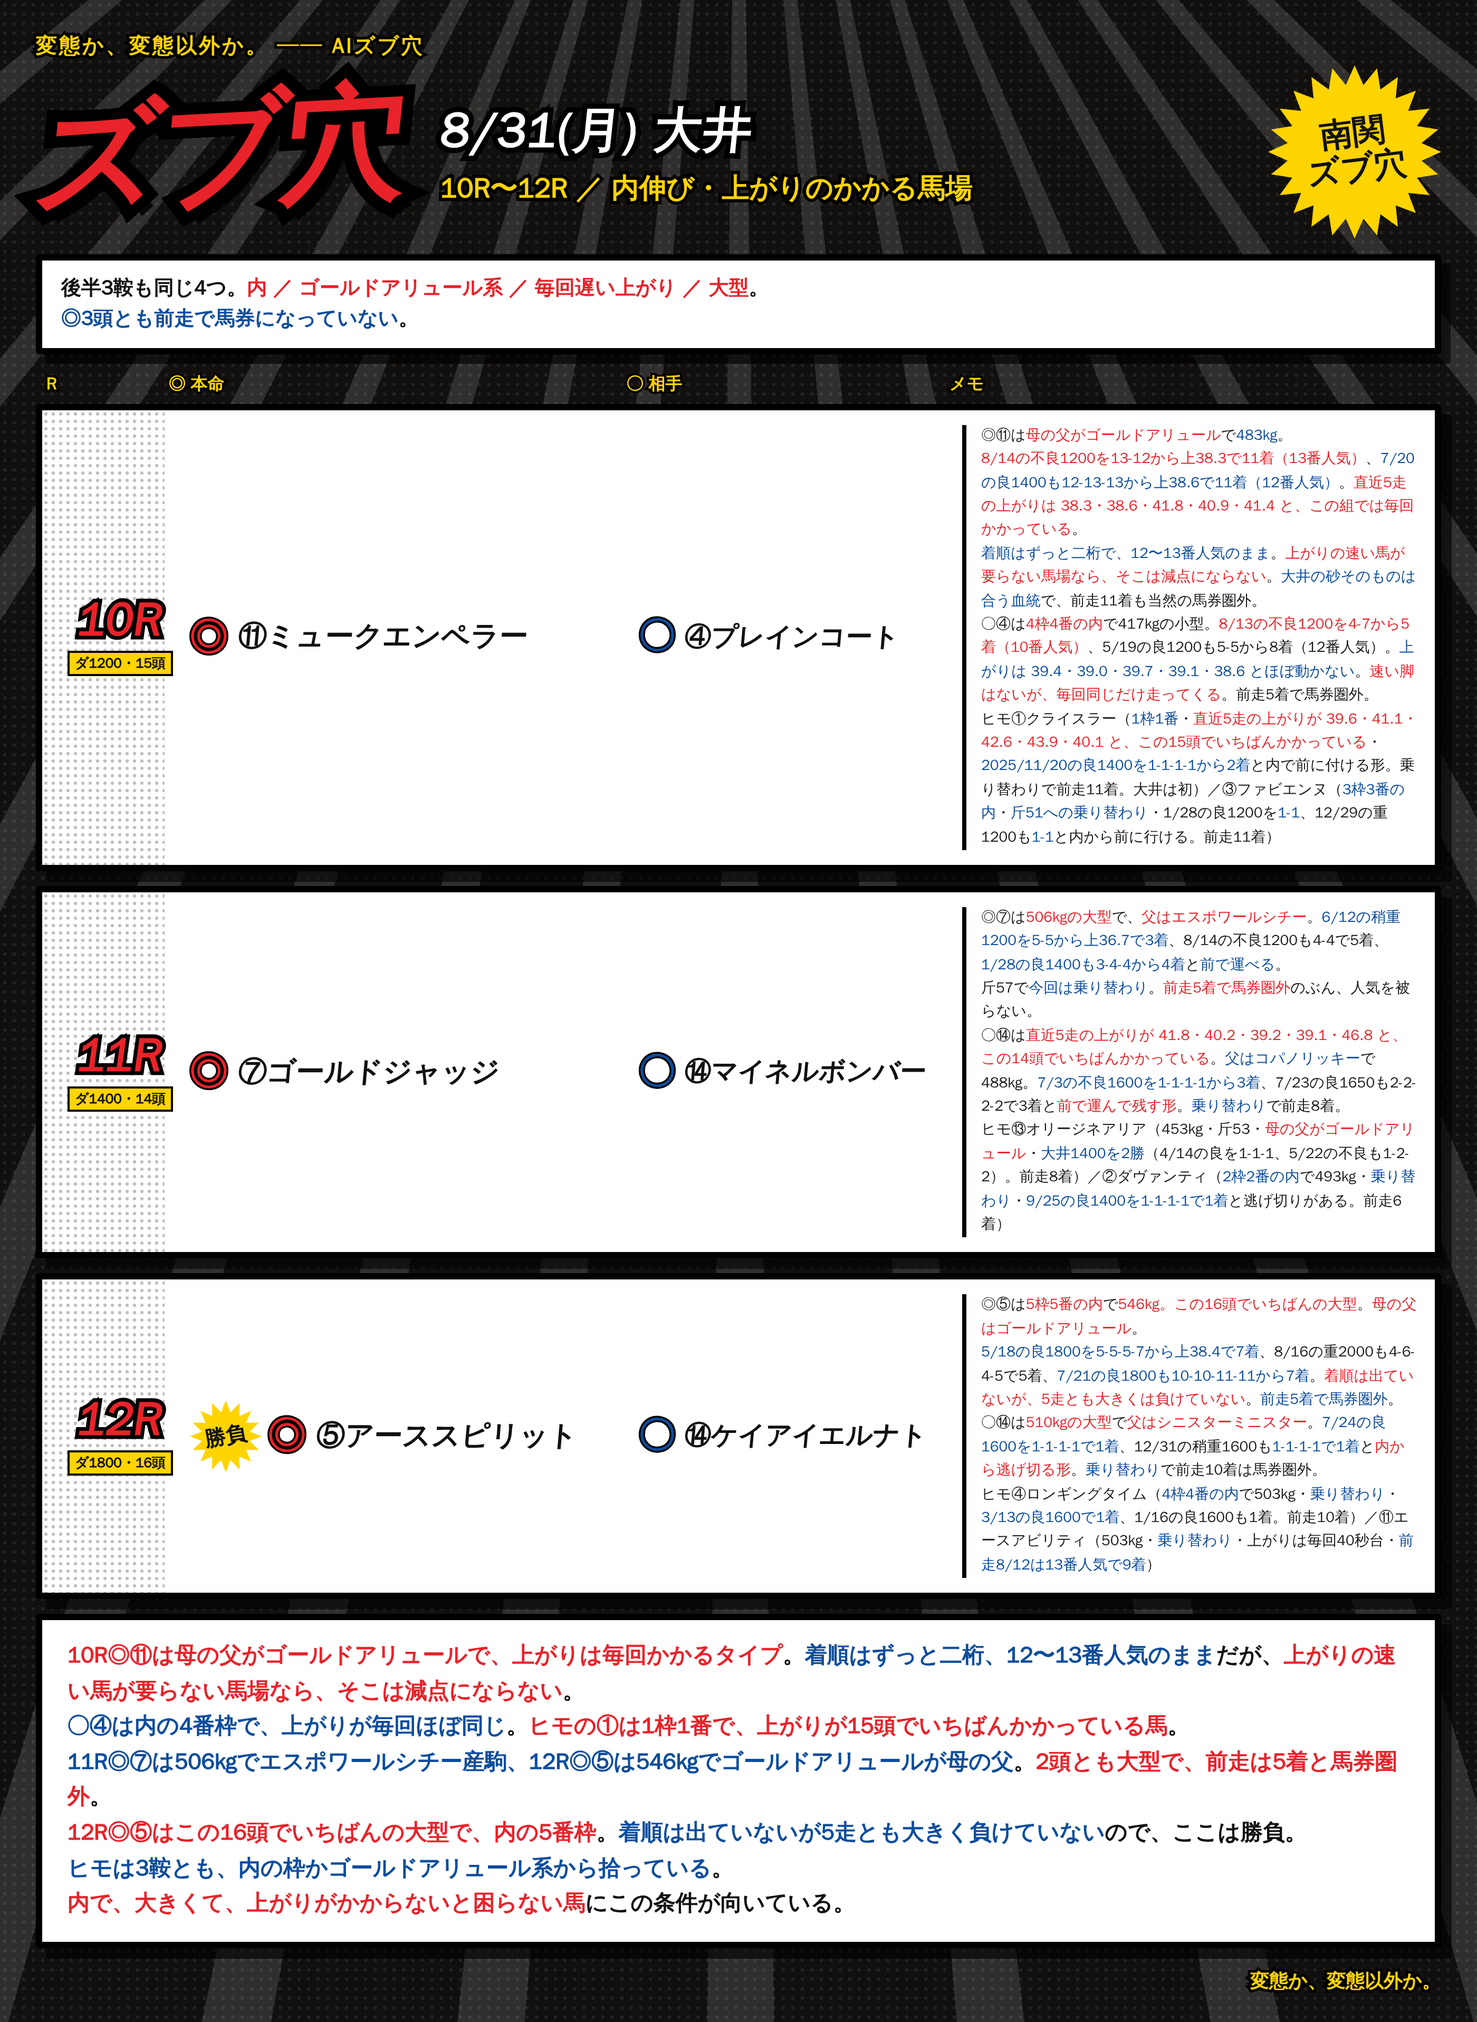
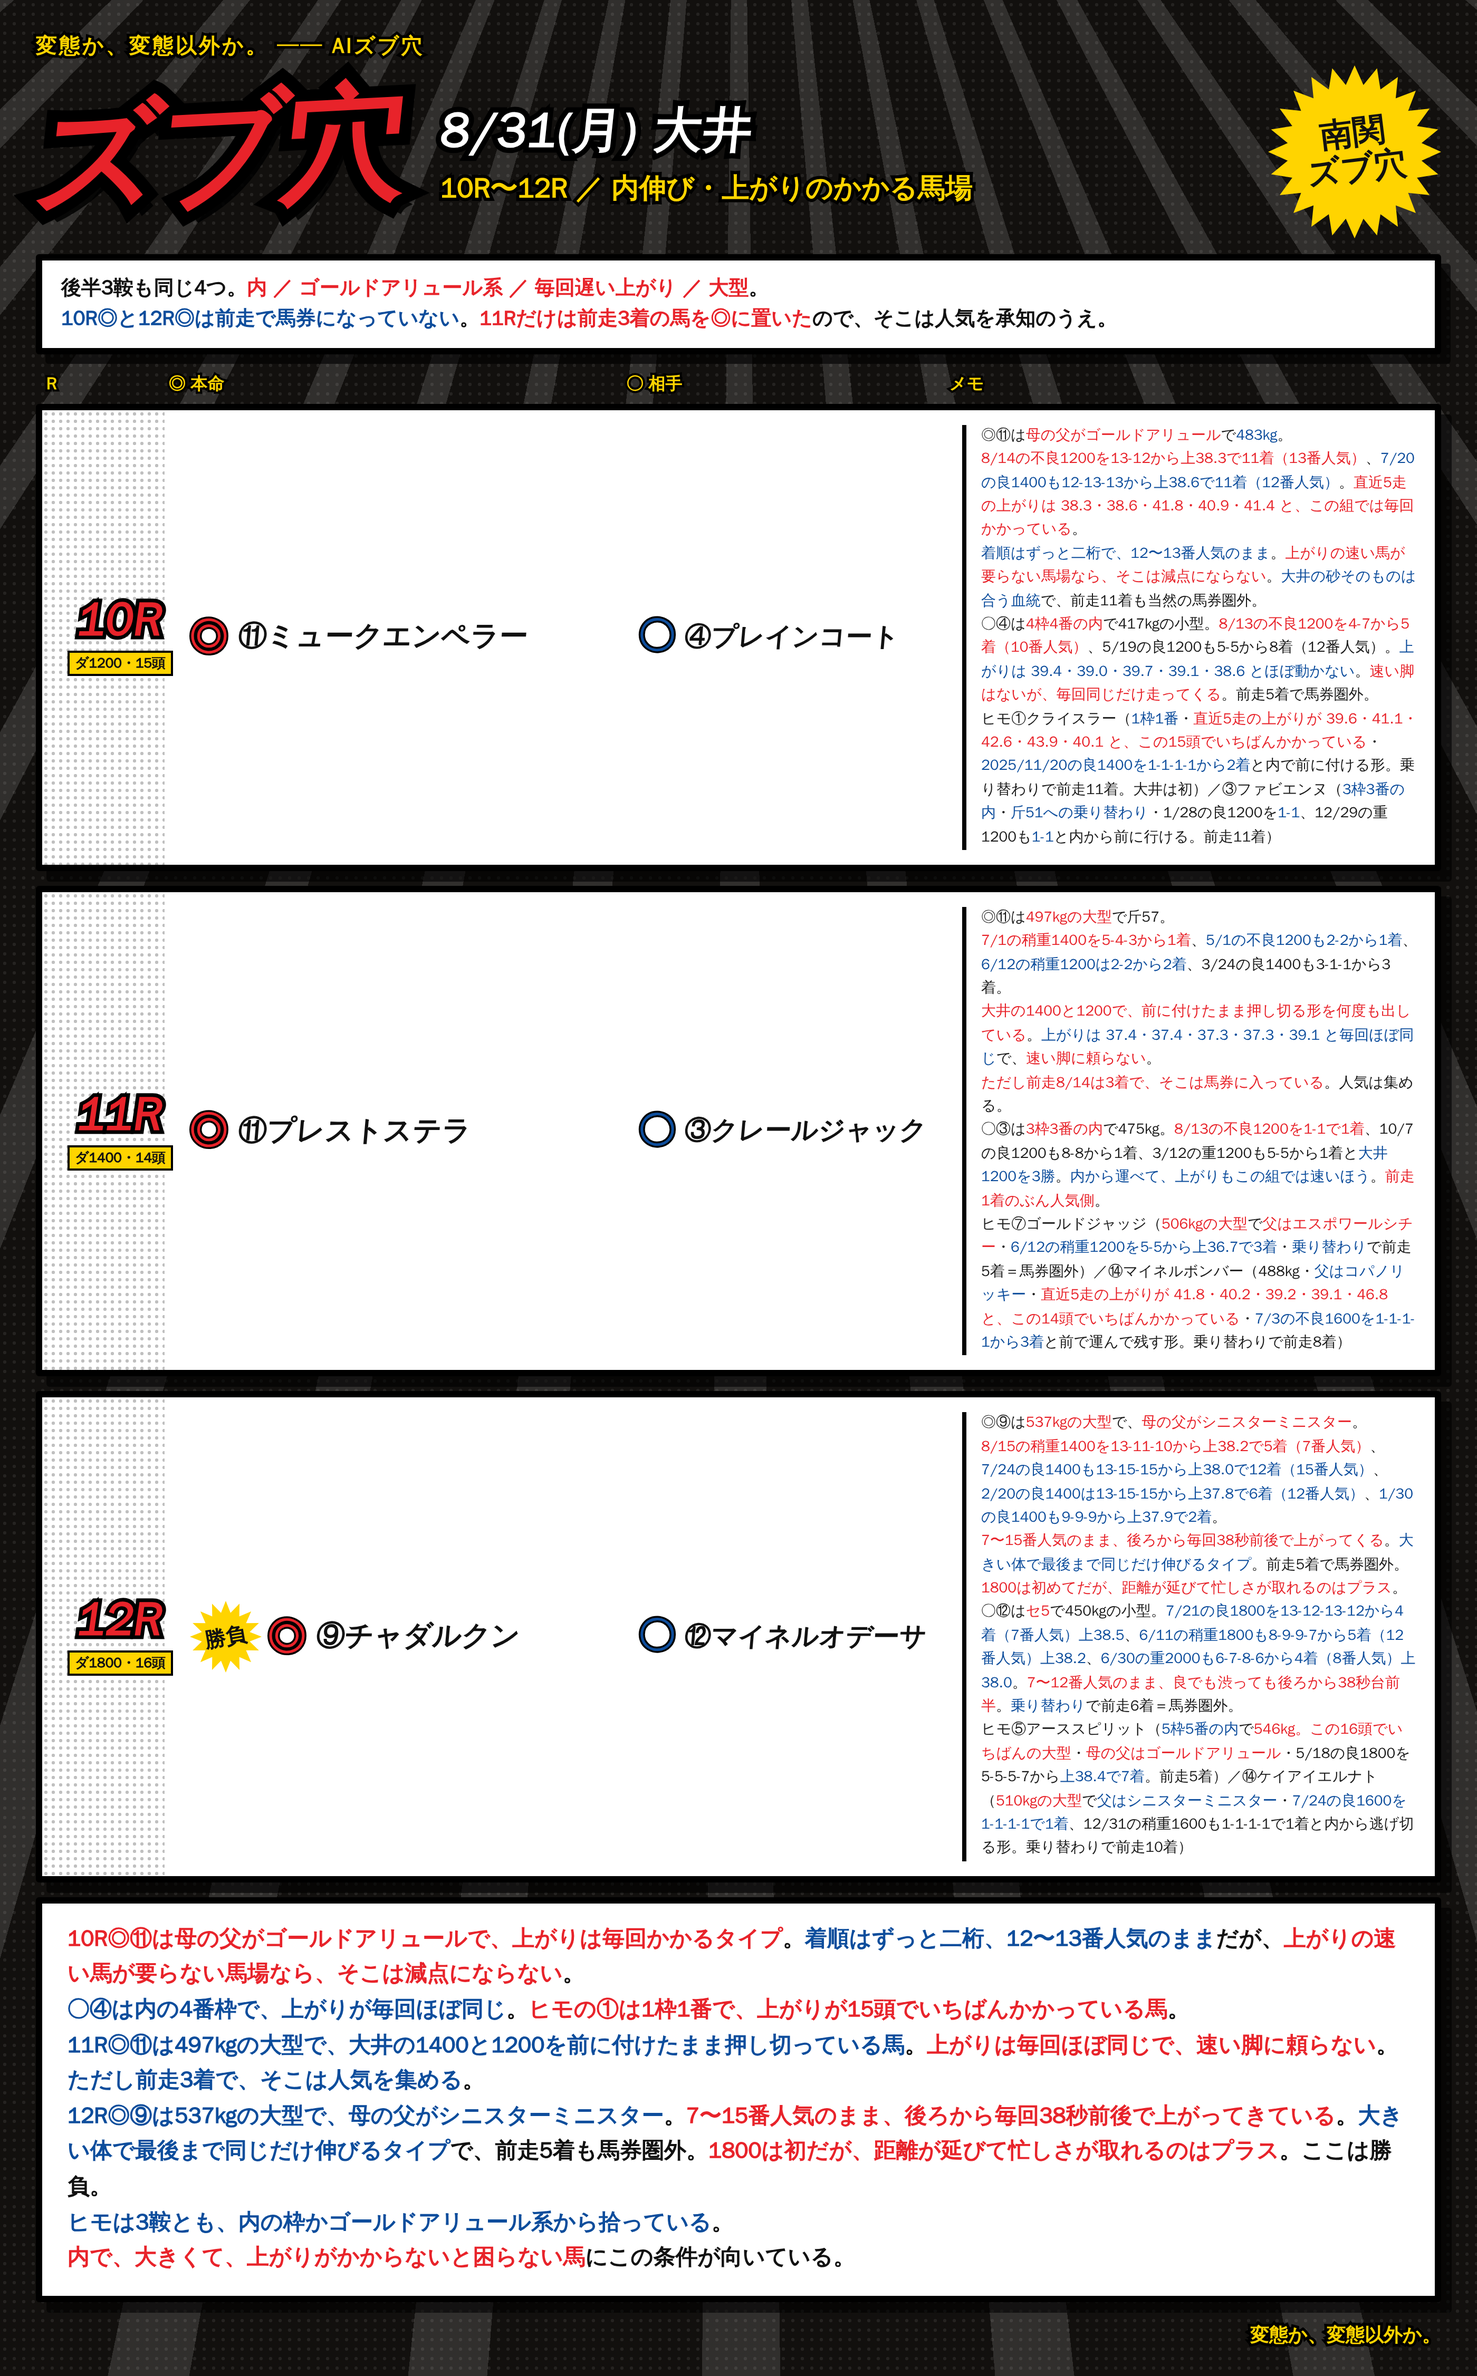
大井 8/31 11R・12R の印を変更
- 11R ◎⑪プレストステラ ○③クレールジャック ヒモ⑦⑭
  ⑪は497kgの大型で、大井の1400と1200を前に付けたまま押し切る形を複数持つ。
  上がりが毎回ほぼ同じで速い脚に頼らない。ただし前走3着で人気を集める点はメモに明記
  ③クレールジャックは3枠3番の内で大井1200を3勝、前走1着のぶん人気側
- 12R ◎⑨チャダルクン ○⑫マイネルオデーサ ヒモ⑤⑭（勝負）
  ⑨は537kgの大型で母父シニスターミニスター。7〜15番人気のまま後ろから毎回38秒前後で
  上がってきており前走5着＝馬券圏外。1800は初
  ⑫マイネルオデーサは乗り替わりで前走6着、良でも渋っても後ろから38秒台前半
- リード文を実態に合わせて修正（11Rのみ前走3着の馬を◎にした旨を明記）
- README も同内容に更新

Claude-Session: https://claude.ai/code/session_01RoHscZkr96FNaxQWvUqgEw

diff --git a/notes/live/2026-08-31/oi_10_12.html b/notes/live/2026-08-31/oi_10_12.html
@@ -79,7 +79,7 @@
 <body><div class="card"><div class="lines"></div><div class="tone"></div><div class="inner">
 <div class="kicker">変態か、変態以外か。 ── AIズブ穴</div>
 <div class="head"><div class="gekiga">ズブ穴</div><div class="dateblk"><div class="d1">8/31(月) 大井</div><div class="d2">10R〜12R ／ 内伸び・上がりのかかる馬場</div></div><div class="burst"><span>南関<br>ズブ穴</span></div></div>
-<div class="lead">後半3鞍も同じ4つ。<span class="r">内 ／ ゴールドアリュール系 ／ 毎回遅い上がり ／ 大型</span>。<br><span class="b">◎3頭とも前走で馬券になっていない</span>。</div>
+<div class="lead">後半3鞍も同じ4つ。<span class="r">内 ／ ゴールドアリュール系 ／ 毎回遅い上がり ／ 大型</span>。<br><span class="b">10R◎と12R◎は前走で馬券になっていない</span>。<span class="r">11Rだけは前走3着の馬を◎に置いた</span>ので、そこは人気を承知のうえ。</div>
 <div class="cols"><div class="cR">R</div><div class="cH">◎ 本命</div><div class="cA">○ 相手</div><div class="cM">メモ</div></div>
 
   <div class="row"><div class="corner"></div>
@@ -91,17 +91,17 @@
 
   <div class="row"><div class="corner"></div>
     <div class="rN"><div class="n">11R</div><div class="d">ダ1400・14頭</div></div>
-    <div class="hm"><span class="mk">◎</span><span class="nm">⑦ゴールドジャッジ</span></div>
-    <div class="at"><span class="mk2">○</span><span class="nm2">⑭マイネルボンバー</span></div>
-    <div class="memo">◎⑦は<b class='r'>506kgの大型</b>で、<b class='r'>父はエスポワールシチー</b>。<b>6/12の稍重1200を5-5から上36.7で3着</b>、8/14の不良1200も4-4で5着、<b>1/28の良1400も3-4-4から4着</b>と<b>前で運べる</b>。<br>斤57で<b>今回は乗り替わり</b>。<b class='r'>前走5着で馬券圏外</b>のぶん、人気を被らない。<br>○⑭は<b class='r'>直近5走の上がりが 41.8・40.2・39.2・39.1・46.8 と、この14頭でいちばんかかっている</b>。<b>父はコパノリッキー</b>で488kg。<b>7/3の不良1600を1-1-1-1から3着</b>、7/23の良1650も2-2-2-2で3着と<b class='r'>前で運んで残す形</b>。<b>乗り替わり</b>で前走8着。<br>ヒモ⑬オリージネアリア（453kg・斤53・<b class='r'>母の父がゴールドアリュール</b>・<b>大井1400を2勝</b>（4/14の良を1-1-1、5/22の不良も1-2-2）。前走8着）／②ダヴァンティ（<b>2枠2番の内</b>で493kg・<b>乗り替わり</b>・<b>9/25の良1400を1-1-1-1で1着</b>と逃げ切りがある。前走6着）</div>
+    <div class="hm"><span class="mk">◎</span><span class="nm">⑪プレストステラ</span></div>
+    <div class="at"><span class="mk2">○</span><span class="nm2">③クレールジャック</span></div>
+    <div class="memo">◎⑪は<b class='r'>497kgの大型</b>で斤57。<br><b class='r'>7/1の稍重1400を5-4-3から1着</b>、<b>5/1の不良1200も2-2から1着</b>、<b>6/12の稍重1200は2-2から2着</b>、3/24の良1400も3-1-1から3着。<br><b class='r'>大井の1400と1200で、前に付けたまま押し切る形を何度も出している</b>。<b>上がりは 37.4・37.4・37.3・37.3・39.1 と毎回ほぼ同じ</b>で、<b class='r'>速い脚に頼らない</b>。<br><b class='r'>ただし前走8/14は3着で、そこは馬券に入っている</b>。人気は集める。<br>○③は<b class='r'>3枠3番の内</b>で475kg。<b class='r'>8/13の不良1200を1-1で1着</b>、10/7の良1200も8-8から1着、3/12の重1200も5-5から1着と<b>大井1200を3勝</b>。<b>内から運べて、上がりもこの組では速いほう</b>。<b class='r'>前走1着のぶん人気側</b>。<br>ヒモ⑦ゴールドジャッジ（<b class='r'>506kgの大型</b>で<b class='r'>父はエスポワールシチー</b>・<b>6/12の稍重1200を5-5から上36.7で3着</b>・<b>乗り替わり</b>で前走5着＝馬券圏外）／⑭マイネルボンバー（488kg・<b>父はコパノリッキー</b>・<b class='r'>直近5走の上がりが 41.8・40.2・39.2・39.1・46.8 と、この14頭でいちばんかかっている</b>・<b>7/3の不良1600を1-1-1-1から3着</b>と前で運んで残す形。乗り替わりで前走8着）</div>
   </div>
 
   <div class="row"><div class="corner"></div>
     <div class="rN"><div class="n">12R</div><div class="d">ダ1800・16頭</div></div>
-    <div class="hm"><div class="sb"><span>勝負</span></div><span class="mk">◎</span><span class="nm">⑤アーススピリット</span></div>
-    <div class="at"><span class="mk2">○</span><span class="nm2">⑭ケイアイエルナト</span></div>
-    <div class="memo">◎⑤は<b class='r'>5枠5番の内</b>で<b class='r'>546kg。この16頭でいちばんの大型</b>。<b class='r'>母の父はゴールドアリュール</b>。<br><b>5/18の良1800を5-5-5-7から上38.4で7着</b>、8/16の重2000も4-6-4-5で5着、<b>7/21の良1800も10-10-11-11から7着</b>。<b class='r'>着順は出ていないが、5走とも大きくは負けていない</b>。<b>前走5着で馬券圏外</b>。<br>○⑭は<b class='r'>510kgの大型</b>で<b class='r'>父はシニスターミニスター</b>。<b>7/24の良1600を1-1-1-1で1着</b>、12/31の稍重1600も<b>1-1-1-1で1着</b>と<b class='r'>内から逃げ切る形</b>。<b>乗り替わり</b>で前走10着は馬券圏外。<br>ヒモ④ロンギングタイム（<b>4枠4番の内</b>で503kg・<b>乗り替わり</b>・<b>3/13の良1600で1着</b>、1/16の良1600も1着。前走10着）／⑪エースアビリティ（503kg・<b>乗り替わり</b>・上がりは毎回40秒台・<b>前走8/12は13番人気で9着</b>）</div>
+    <div class="hm"><div class="sb"><span>勝負</span></div><span class="mk">◎</span><span class="nm">⑨チャダルクン</span></div>
+    <div class="at"><span class="mk2">○</span><span class="nm2">⑫マイネルオデーサ</span></div>
+    <div class="memo">◎⑨は<b class='r'>537kgの大型</b>で、<b class='r'>母の父がシニスターミニスター</b>。<br><b class='r'>8/15の稍重1400を13-11-10から上38.2で5着（7番人気）</b>、<b>7/24の良1400も13-15-15から上38.0で12着（15番人気）</b>、<b>2/20の良1400は13-15-15から上37.8で6着（12番人気）</b>、<b>1/30の良1400も9-9-9から上37.9で2着</b>。<br><b class='r'>7〜15番人気のまま、後ろから毎回38秒前後で上がってくる</b>。<b>大きい体で最後まで同じだけ伸びるタイプ</b>。前走5着で馬券圏外。<b class='r'>1800は初めてだが、距離が延びて忙しさが取れるのはプラス</b>。<br>○⑫は<b class='r'>セ5</b>で450kgの小型。<b>7/21の良1800を13-12-13-12から4着（7番人気）上38.5</b>、<b>6/11の稍重1800も8-9-9-7から5着（12番人気）上38.2</b>、<b>6/30の重2000も6-7-8-6から4着（8番人気）上38.0</b>。<b class='r'>7〜12番人気のまま、良でも渋っても後ろから38秒台前半</b>。<b>乗り替わり</b>で前走6着＝馬券圏外。<br>ヒモ⑤アーススピリット（<b>5枠5番の内</b>で<b class='r'>546kg。この16頭でいちばんの大型</b>・<b class='r'>母の父はゴールドアリュール</b>・5/18の良1800を5-5-5-7から<b>上38.4で7着</b>。前走5着）／⑭ケイアイエルナト（<b class='r'>510kgの大型</b>で<b>父はシニスターミニスター</b>・<b>7/24の良1600を1-1-1-1で1着</b>、12/31の稍重1600も1-1-1-1で1着と内から逃げ切る形。乗り替わりで前走10着）</div>
   </div>
-<div class="foot"><span class="r">10R◎⑪は母の父がゴールドアリュールで、上がりは毎回かかるタイプ</span>。<span class="b">着順はずっと二桁、12〜13番人気のまま</span>だが、<span class="r">上がりの速い馬が要らない馬場なら、そこは減点にならない</span>。<br><span class="b">○④は内の4番枠で、上がりが毎回ほぼ同じ</span>。<span class="r">ヒモの①は1枠1番で、上がりが15頭でいちばんかかっている馬</span>。<br><span class="b">11R◎⑦は506kgでエスポワールシチー産駒、12R◎⑤は546kgでゴールドアリュールが母の父</span>。<span class="r">2頭とも大型で、前走は5着と馬券圏外</span>。<br><span class="r">12R◎⑤はこの16頭でいちばんの大型で、内の5番枠</span>。<span class="b">着順は出ていないが5走とも大きく負けていない</span>ので、ここは勝負。<br><span class="b">ヒモは3鞍とも、内の枠かゴールドアリュール系から拾っている</span>。<br><span class="r">内で、大きくて、上がりがかからないと困らない馬</span>にこの条件が向いている。</div>
+<div class="foot"><span class="r">10R◎⑪は母の父がゴールドアリュールで、上がりは毎回かかるタイプ</span>。<span class="b">着順はずっと二桁、12〜13番人気のまま</span>だが、<span class="r">上がりの速い馬が要らない馬場なら、そこは減点にならない</span>。<br><span class="b">○④は内の4番枠で、上がりが毎回ほぼ同じ</span>。<span class="r">ヒモの①は1枠1番で、上がりが15頭でいちばんかかっている馬</span>。<br><span class="b">11R◎⑪は497kgの大型で、大井の1400と1200を前に付けたまま押し切っている馬</span>。<span class="r">上がりは毎回ほぼ同じで、速い脚に頼らない</span>。<span class="b">ただし前走3着で、そこは人気を集める</span>。<br><span class="b">12R◎⑨は537kgの大型で、母の父がシニスターミニスター</span>。<span class="r">7〜15番人気のまま、後ろから毎回38秒前後で上がってきている</span>。<span class="b">大きい体で最後まで同じだけ伸びるタイプ</span>で、前走5着も馬券圏外。<span class="r">1800は初だが、距離が延びて忙しさが取れるのはプラス</span>。ここは勝負。<br><span class="b">ヒモは3鞍とも、内の枠かゴールドアリュール系から拾っている</span>。<br><span class="r">内で、大きくて、上がりがかからないと困らない馬</span>にこの条件が向いている。</div>
 <div class="sig">変態か、変態以外か。</div>
 </div></div></body></html>

diff --git a/notes/live/2026-08-31/README.md b/notes/live/2026-08-31/README.md
@@ -353,8 +353,8 @@
 | 8R | ダ1400・14頭 | ⑧グランドターギー | ①ラッキーロジータ | ⑦④ |
 | 9R **勝負** | ダ2000・12頭 | ④サガノオウマサン | ⑨レディーキラー | ③⑪ |
 | 10R | ダ1200・15頭 | ⑪ミュークエンペラー | ④プレインコート | ①③ |
-| 11R | ダ1400・14頭 | ⑦ゴールドジャッジ | ⑭マイネルボンバー | ⑬② |
-| 12R **勝負** | ダ1800・16頭 | ⑤アーススピリット | ⑭ケイアイエルナト | ④⑪ |
+| 11R | ダ1400・14頭 | ⑪プレストステラ | ③クレールジャック | ⑦⑭ |
+| 12R **勝負** | ダ1800・16頭 | ⑨チャダルクン | ⑫マイネルオデーサ | ⑤⑭ |
 
 - **7R○①・8R○①・10Rヒモ①は、1枠1番でその組の上がりが最もかかっている馬**
 - **10R◎⑪は母父ゴールドアリュール。上がりが毎回かかり、着順はずっと二桁で12〜13番人気のまま**
@@ -362,10 +362,11 @@
 - **7R◎⑧・8R◎⑧は、どちらも9〜10番人気のまま後ろから運んで大きくは負けていない馬**
   （8R⑧は今日が1600→1400の距離短縮）
 - **9R◎④は内の4番枠・乗り替わりで、大井2000に2着がある**
-- 大型：8R○①が508kg、11R◎⑦が506kg、12R◎⑤が546kg（9Rヒモ③も515kg、8Rヒモ⑦も504kg）
-- **◎6頭とも前走で馬券になっていない**（5着・7着・4着・11着・5着・5着）
+- 大型：8R○①が508kg、11R◎⑪が497kg、**12R◎⑨が537kg**（12Rヒモ⑤は546kg・⑭は510kg、9Rヒモ③は515kg、8Rヒモ⑦は504kg）
+- **◎は6鞍中5鞍が前走馬券圏外**（5着・7着・4着・11着・**11R⑪のみ前走3着**・5着）
 - ゴールドアリュール系：9R○⑨（父コパノリッキー）・**10R◎⑪（母父ゴールドアリュール）**・
-  11R◎⑦（父エスポワールシチー）・12R◎⑤（母父ゴールドアリュール）・12R○⑭（父シニスターミニスター）
+  **12R◎⑨（母父シニスターミニスター）**・11Rヒモ⑦（父エスポワールシチー）・
+  12Rヒモ⑤（母父ゴールドアリュール）・12Rヒモ⑭（父シニスターミニスター）
 - **勝負は9Rと12Rの2つ**
 
 ## 参考データ（scratchpad）
